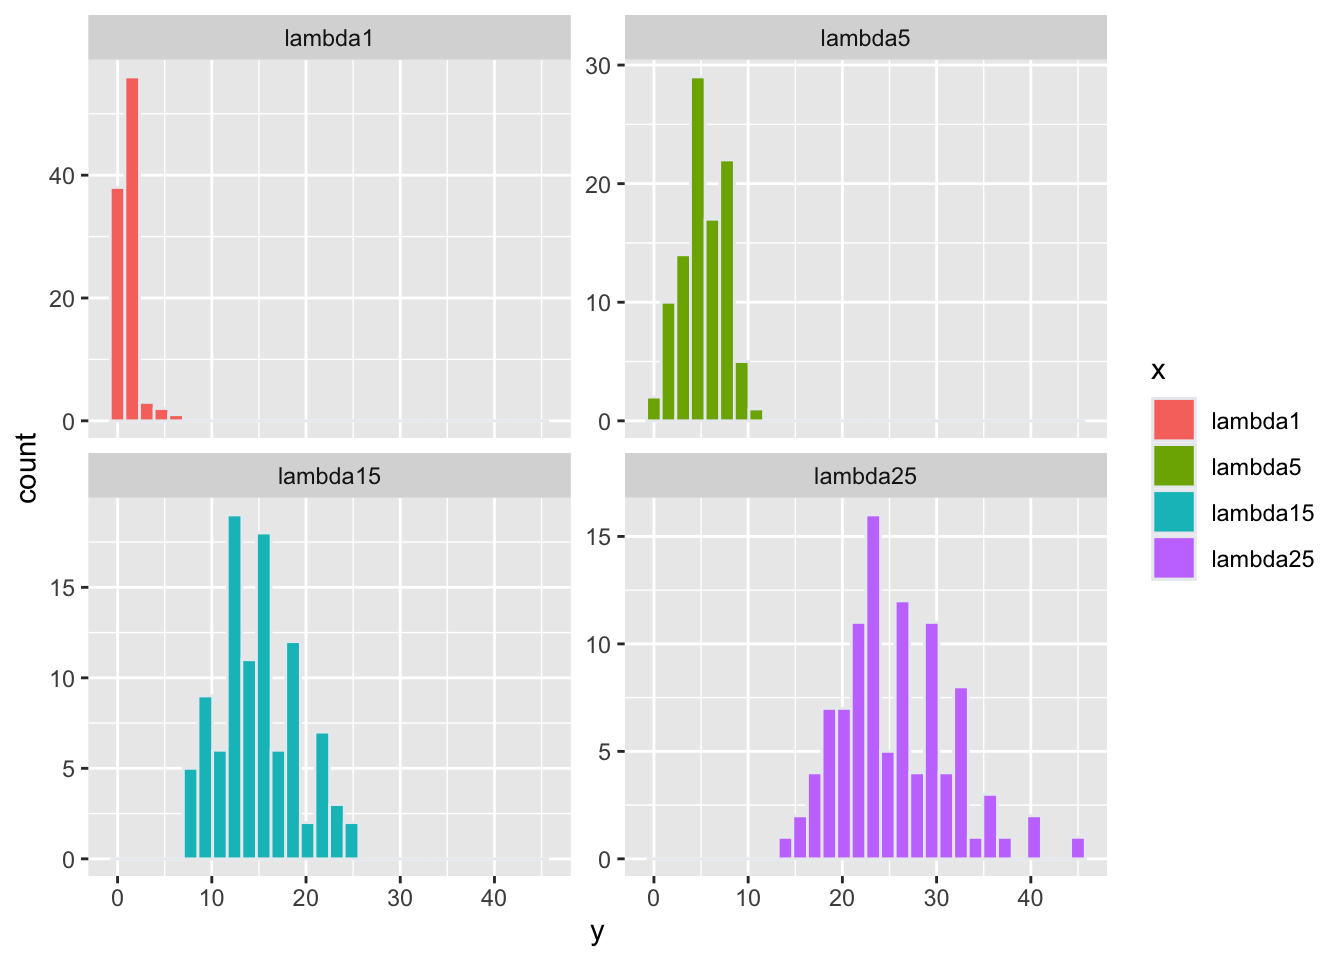
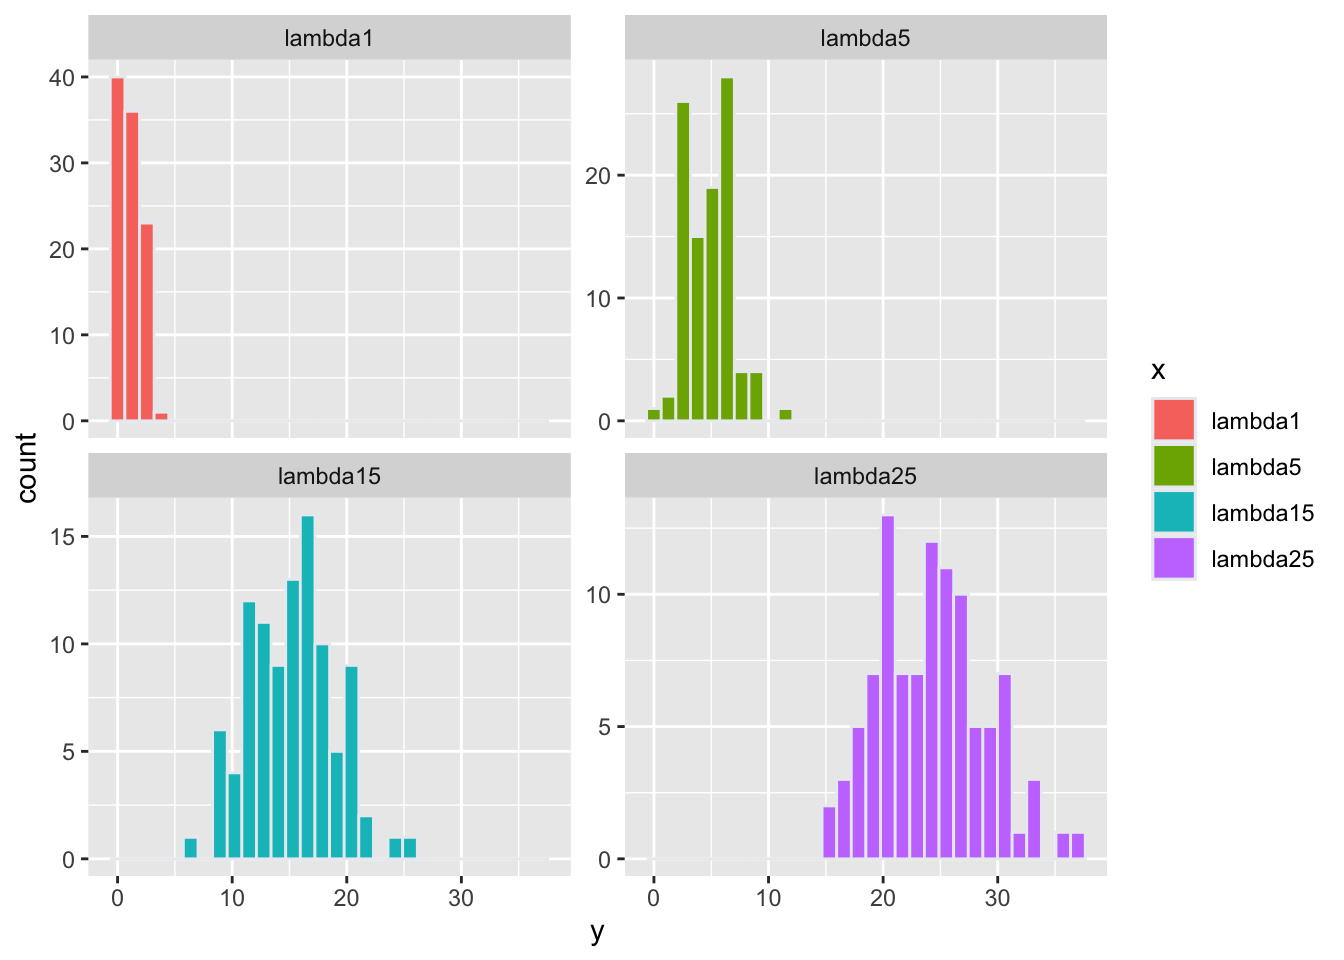
Poisson

diff --git a/TF6_Regresion_Poisson.html b/TF6_Regresion_Poisson.html
@@ -676,36 +676,35 @@ div.tocify {
 <li>k! es el factorial de k.</li>
 </ul>
 <p>Cuando se describe una distribución Poisson el promedio es <span class="math inline">\(\lambda\)</span> y la varianza es tambien <span class="math inline">\(\lambda\)</span>. Es el mismo valor. Para calcular los otros parámetros vea el website de Wikipedia (<a href="https://en.wikipedia.org/wiki/Poisson_distribution" class="uri">https://en.wikipedia.org/wiki/Poisson_distribution</a>) que tiene la descripción de los otras medidas de tendencia centrales y de dispersión.</p>
-<div class="sourceCode" id="cb4"><pre class="sourceCode r"><code class="sourceCode r"><span id="cb4-1"><a href="#cb4-1"></a><span class="co">#x1=rpois(100, 1)</span></span>
-<span id="cb4-2"><a href="#cb4-2"></a><span class="co">#x5=rpois(100, 5)</span></span>
-<span id="cb4-3"><a href="#cb4-3"></a><span class="co">#x15=rpois(100, 15)</span></span>
-<span id="cb4-4"><a href="#cb4-4"></a><span class="co">#x25=rpois(100, 25)</span></span>
-<span id="cb4-5"><a href="#cb4-5"></a></span>
-<span id="cb4-6"><a href="#cb4-6"></a></span>
-<span id="cb4-7"><a href="#cb4-7"></a>foo &lt;-<span class="st"> </span><span class="kw">list</span>(</span>
-<span id="cb4-8"><a href="#cb4-8"></a>        <span class="dt">df1 =</span> <span class="kw">data.frame</span>(<span class="dt">x=</span><span class="kw">rep</span>(<span class="st">&#39;lambda1&#39;</span>, <span class="dv">100</span>), <span class="dt">y =</span> <span class="kw">rpois</span>(<span class="dv">100</span>, <span class="dv">1</span>)), </span>
-<span id="cb4-9"><a href="#cb4-9"></a>        <span class="dt">df5 =</span> <span class="kw">data.frame</span>(<span class="dt">x=</span><span class="kw">rep</span>(<span class="st">&#39;lambda5&#39;</span>, <span class="dv">100</span>), <span class="dt">y =</span> <span class="kw">rpois</span>(<span class="dv">100</span>, <span class="dv">5</span>)),</span>
-<span id="cb4-10"><a href="#cb4-10"></a>        <span class="dt">df15 =</span> <span class="kw">data.frame</span>(<span class="dt">x=</span><span class="kw">rep</span>(<span class="st">&#39;lambda15&#39;</span>, <span class="dv">100</span>), <span class="dt">y =</span> <span class="kw">rpois</span>(<span class="dv">100</span>, <span class="dv">15</span>)),</span>
-<span id="cb4-11"><a href="#cb4-11"></a>        <span class="dt">df25 =</span> <span class="kw">data.frame</span>(<span class="dt">x=</span><span class="kw">rep</span>(<span class="st">&#39;lambda25&#39;</span>, <span class="dv">100</span>), <span class="dt">y =</span> <span class="kw">rpois</span>(<span class="dv">100</span>, <span class="dv">25</span>))</span>
-<span id="cb4-12"><a href="#cb4-12"></a>)</span>
-<span id="cb4-13"><a href="#cb4-13"></a><span class="co">#foo</span></span>
-<span id="cb4-14"><a href="#cb4-14"></a></span>
-<span id="cb4-15"><a href="#cb4-15"></a>lambda=<span class="kw">rbind</span>(foo<span class="op">$</span>df1, foo<span class="op">$</span>df5,foo<span class="op">$</span>df15,foo<span class="op">$</span>df25 )</span>
-<span id="cb4-16"><a href="#cb4-16"></a><span class="kw">head</span>(lambda)</span></code></pre></div>
+<div class="sourceCode" id="cb4"><pre class="sourceCode r"><code class="sourceCode r"><span id="cb4-1"><a href="#cb4-1"></a>foo &lt;-<span class="st"> </span><span class="kw">list</span>(</span>
+<span id="cb4-2"><a href="#cb4-2"></a>        <span class="dt">df1 =</span> <span class="kw">data.frame</span>(<span class="dt">x=</span><span class="kw">rep</span>(<span class="st">&#39;lambda1&#39;</span>, <span class="dv">100</span>), <span class="dt">y =</span> <span class="kw">rpois</span>(<span class="dv">100</span>, <span class="dv">1</span>)), </span>
+<span id="cb4-3"><a href="#cb4-3"></a>        <span class="dt">df5 =</span> <span class="kw">data.frame</span>(<span class="dt">x=</span><span class="kw">rep</span>(<span class="st">&#39;lambda5&#39;</span>, <span class="dv">100</span>), <span class="dt">y =</span> <span class="kw">rpois</span>(<span class="dv">100</span>, <span class="dv">5</span>)),</span>
+<span id="cb4-4"><a href="#cb4-4"></a>        <span class="dt">df15 =</span> <span class="kw">data.frame</span>(<span class="dt">x=</span><span class="kw">rep</span>(<span class="st">&#39;lambda15&#39;</span>, <span class="dv">100</span>), <span class="dt">y =</span> <span class="kw">rpois</span>(<span class="dv">100</span>, <span class="dv">15</span>)),</span>
+<span id="cb4-5"><a href="#cb4-5"></a>        <span class="dt">df25 =</span> <span class="kw">data.frame</span>(<span class="dt">x=</span><span class="kw">rep</span>(<span class="st">&#39;lambda25&#39;</span>, <span class="dv">100</span>), <span class="dt">y =</span> <span class="kw">rpois</span>(<span class="dv">100</span>, <span class="dv">25</span>))</span>
+<span id="cb4-6"><a href="#cb4-6"></a>)</span>
+<span id="cb4-7"><a href="#cb4-7"></a><span class="co">#foo</span></span>
+<span id="cb4-8"><a href="#cb4-8"></a></span>
+<span id="cb4-9"><a href="#cb4-9"></a>lambda=<span class="kw">rbind</span>(foo<span class="op">$</span>df1, foo<span class="op">$</span>df5,foo<span class="op">$</span>df15,foo<span class="op">$</span>df25 )</span>
+<span id="cb4-10"><a href="#cb4-10"></a><span class="kw">head</span>(lambda)</span></code></pre></div>
 <pre><code>##         x y
-## 1 lambda1 0
-## 2 lambda1 2
-## 3 lambda1 4
-## 4 lambda1 0
-## 5 lambda1 0
-## 6 lambda1 0</code></pre>
+## 1 lambda1 1
+## 2 lambda1 0
+## 3 lambda1 1
+## 4 lambda1 1
+## 5 lambda1 2
+## 6 lambda1 2</code></pre>
 <div class="sourceCode" id="cb6"><pre class="sourceCode r"><code class="sourceCode r"><span id="cb6-1"><a href="#cb6-1"></a>lambda<span class="op">$</span>x =<span class="st"> </span><span class="kw">factor</span>(lambda<span class="op">$</span>x, <span class="dt">levels=</span><span class="kw">c</span>(<span class="st">&#39;lambda1&#39;</span>,<span class="st">&#39;lambda5&#39;</span>,<span class="st">&#39;lambda15&#39;</span>,<span class="st">&#39;lambda25&#39;</span>))</span></code></pre></div>
 <p>Figura de la frecuencia de los valores, nota que se tiene 100 valores en cada simulación, donde el promedio, <span class="math inline">\(\lambda\)</span> varia, los <span class="math inline">\(\lambda\)</span> son 1, 5, 15 y 25. Nota</p>
+<div id="distribución-de-frecuencia" class="section level3">
+<h3>Distribución de frecuencia</h3>
 <div class="sourceCode" id="cb7"><pre class="sourceCode r"><code class="sourceCode r"><span id="cb7-1"><a href="#cb7-1"></a><span class="kw">ggplot</span>(lambda, <span class="kw">aes</span>(y, <span class="dt">fill=</span>x))<span class="op">+</span></span>
 <span id="cb7-2"><a href="#cb7-2"></a><span class="kw">geom_histogram</span>(<span class="dt">color=</span><span class="st">&quot;#e9ecef&quot;</span>)<span class="op">+</span></span>
 <span id="cb7-3"><a href="#cb7-3"></a><span class="st">  </span><span class="kw">facet_wrap</span>(<span class="op">~</span>x, <span class="dt">scales=</span><span class="st">&quot;free_y&quot;</span>)</span></code></pre></div>
 <pre><code>## `stat_bin()` using `bins = 30`. Pick better value with `binwidth`.</code></pre>
 <p><img src="TF6_Regresion_Poisson_files/figure-html/unnamed-chunk-5-1.png" width="672" /></p>
+</div>
+<div id="función-de-probabilidad" class="section level3">
+<h3>Función de Probabilidad</h3>
 <p>Se puede convertir estos gráfico en “probability mass distribution”. En esta ocasión la distribución sigue la siguiente ecuación,</p>
 <p><span class="math display">\[Pr\left(x=k\right)=\frac{\lambda^k\cdot e^{-\lambda}}{k!}\]</span></p>
 <div class="sourceCode" id="cb9"><pre class="sourceCode r"><code class="sourceCode r"><span id="cb9-1"><a href="#cb9-1"></a><span class="kw">ggplot</span>(lambda, <span class="kw">aes</span>(y, <span class="dt">fill=</span>x))<span class="op">+</span></span>
@@ -713,15 +712,19 @@ div.tocify {
 <span id="cb9-3"><a href="#cb9-3"></a><span class="st">  </span><span class="kw">facet_wrap</span>(<span class="op">~</span>x)</span></code></pre></div>
 <pre><code>## `stat_bin()` using `bins = 30`. Pick better value with `binwidth`.</code></pre>
 <p><img src="TF6_Regresion_Poisson_files/figure-html/unnamed-chunk-6-1.png" width="672" /></p>
-<p>Muchas veces los datos pueden ser sesgado a la derecha o izquierda, y no demuestra una distribución normal (aunque pudiese).</p>
-<div class="sourceCode" id="cb11"><pre class="sourceCode r"><code class="sourceCode r"><span id="cb11-1"><a href="#cb11-1"></a><span class="kw">ggplot</span>(acs, <span class="kw">aes</span>(<span class="dt">x=</span>NumChildren))<span class="op">+</span><span class="st"> </span><span class="kw">geom_histogram</span>(<span class="dt">bindwidth=</span><span class="dv">1</span>)</span></code></pre></div>
+<p>Aqui se aplica la función para visualizar la probabilidades cumulativas, vea <strong>stat_ecdf {ggplot2}</strong> para más detalles. Lo que se observa es la probabilidad de incluir los valores cumulativamente. Los más importante es reconocer que la adición de las probabilidades no es continua, pero “salta” de un valor a otra a medida que se añade la frecuencia de los valores en el eje de x. Si fuese una distribución normal, la linea seria suavizada.</p>
+<div class="sourceCode" id="cb11"><pre class="sourceCode r"><code class="sourceCode r"><span id="cb11-1"><a href="#cb11-1"></a><span class="kw">ggplot</span>(lambda, <span class="kw">aes</span>(y, <span class="dt">colour=</span>x))<span class="op">+</span></span>
+<span id="cb11-2"><a href="#cb11-2"></a><span class="kw">stat_ecdf</span>(<span class="dt">geom =</span> <span class="st">&quot;step&quot;</span>)</span></code></pre></div>
+<p><img src="TF6_Regresion_Poisson_files/figure-html/unnamed-chunk-7-1.png" width="672" /></p>
+<p>Muchas veces los datos que uno recolecta tienen esta características de ser discreto y positivos. En este ejemplo es el número de hijos que tiene familias. Los datos son discretos y positivos. No hay familia que tiene 1.4 hijos.</p>
+<div class="sourceCode" id="cb12"><pre class="sourceCode r"><code class="sourceCode r"><span id="cb12-1"><a href="#cb12-1"></a><span class="kw">ggplot</span>(acs, <span class="kw">aes</span>(<span class="dt">x=</span>NumChildren))<span class="op">+</span><span class="st"> </span><span class="kw">geom_histogram</span>(<span class="dt">bindwidth=</span><span class="dv">1</span>)</span></code></pre></div>
 <pre><code>## Warning: Ignoring unknown parameters: bindwidth</code></pre>
 <pre><code>## `stat_bin()` using `bins = 30`. Pick better value with `binwidth`.</code></pre>
 <p><img src="TF6_Regresion_Poisson_files/figure-html/PR-1.png" width="672" /></p>
-<div class="sourceCode" id="cb14"><pre class="sourceCode r"><code class="sourceCode r"><span id="cb14-1"><a href="#cb14-1"></a>children1&lt;-<span class="kw">glm</span>(NumChildren<span class="op">~</span>FamilyIncome<span class="op">+</span>FamilyType<span class="op">+</span>OwnRent,</span>
-<span id="cb14-2"><a href="#cb14-2"></a>               <span class="dt">data=</span>acs, <span class="dt">family=</span><span class="kw">poisson</span>(<span class="dt">link=</span><span class="st">&quot;log&quot;</span>))</span>
-<span id="cb14-3"><a href="#cb14-3"></a></span>
-<span id="cb14-4"><a href="#cb14-4"></a><span class="kw">summary</span>(children1)</span></code></pre></div>
+<div class="sourceCode" id="cb15"><pre class="sourceCode r"><code class="sourceCode r"><span id="cb15-1"><a href="#cb15-1"></a>children1&lt;-<span class="kw">glm</span>(NumChildren<span class="op">~</span>FamilyIncome<span class="op">+</span>FamilyType<span class="op">+</span>OwnRent,</span>
+<span id="cb15-2"><a href="#cb15-2"></a>               <span class="dt">data=</span>acs, <span class="dt">family=</span><span class="kw">poisson</span>(<span class="dt">link=</span><span class="st">&quot;log&quot;</span>))</span>
+<span id="cb15-3"><a href="#cb15-3"></a></span>
+<span id="cb15-4"><a href="#cb15-4"></a><span class="kw">summary</span>(children1)</span></code></pre></div>
 <pre><code>## 
 ## Call:
 ## glm(formula = NumChildren ~ FamilyIncome + FamilyType + OwnRent, 
@@ -749,35 +752,36 @@ div.tocify {
 ## AIC: 61370
 ## 
 ## Number of Fisher Scoring iterations: 5</code></pre>
-<div class="sourceCode" id="cb16"><pre class="sourceCode r"><code class="sourceCode r"><span id="cb16-1"><a href="#cb16-1"></a><span class="kw">coefplot</span>(children1)</span></code></pre></div>
+<div class="sourceCode" id="cb17"><pre class="sourceCode r"><code class="sourceCode r"><span id="cb17-1"><a href="#cb17-1"></a><span class="kw">coefplot</span>(children1)</span></code></pre></div>
 <p><img src="TF6_Regresion_Poisson_files/figure-html/PR2-1.png" width="672" /></p>
 <p>Overdispersion is defined as</p>
 <p><span class="math inline">\(OD=\frac { 1 }{ n-p } \sum _{ i=1 }^{ n }{ { z }_{ i }^{ 2 } }\)</span></p>
 <p>where</p>
 <p><span class="math inline">\({ z }_{ i }=\frac { \gamma _{ i }-{ \hat { \gamma } }_{ i } }{ sd({ \hat { \gamma } }_{ i }) } =\frac { \gamma _{ i }-{ \mu }_{ i }{ \hat { \theta } }_{ i } }{ \sqrt { { \mu }_{ i }{ \hat { \theta } }_{ i } } }\)</span></p>
 <p>standardized residuals</p>
-<div class="sourceCode" id="cb17"><pre class="sourceCode r"><code class="sourceCode r"><span id="cb17-1"><a href="#cb17-1"></a>z&lt;-(acs<span class="op">$</span>NumChildren<span class="op">-</span>children1<span class="op">$</span>fitted.values)<span class="op">/</span><span class="kw">sqrt</span>(children1<span class="op">$</span>fitted.values)</span>
-<span id="cb17-2"><a href="#cb17-2"></a><span class="kw">head</span>(z)</span></code></pre></div>
+<div class="sourceCode" id="cb18"><pre class="sourceCode r"><code class="sourceCode r"><span id="cb18-1"><a href="#cb18-1"></a>z&lt;-(acs<span class="op">$</span>NumChildren<span class="op">-</span>children1<span class="op">$</span>fitted.values)<span class="op">/</span><span class="kw">sqrt</span>(children1<span class="op">$</span>fitted.values)</span>
+<span id="cb18-2"><a href="#cb18-2"></a><span class="kw">head</span>(z)</span></code></pre></div>
 <pre><code>##           1           2           3           4           5           6 
 ##  0.18186518  0.87627176 -0.84977889 -0.08314153  0.39096022  1.95966583</code></pre>
 <p>Overdispersion Factor</p>
-<div class="sourceCode" id="cb19"><pre class="sourceCode r"><code class="sourceCode r"><span id="cb19-1"><a href="#cb19-1"></a><span class="kw">sum</span>(z<span class="op">^</span><span class="dv">2</span>)<span class="op">/</span>children1<span class="op">$</span>df.residual</span></code></pre></div>
+<div class="sourceCode" id="cb20"><pre class="sourceCode r"><code class="sourceCode r"><span id="cb20-1"><a href="#cb20-1"></a><span class="kw">sum</span>(z<span class="op">^</span><span class="dv">2</span>)<span class="op">/</span>children1<span class="op">$</span>df.residual</span></code></pre></div>
 <pre><code>## [1] 1.469747</code></pre>
 <p>Overdisperion p-value</p>
 <p>Gnerally an overdispersion ratio of 2 or greater indicates overdispersion. While this overdispersion ratio is less than 2, the p value is 1, meaning that there is statistically significant overdispersion. So we refit the model to account for the overdispersion using quasipoisson family, which actually uses the negative binomial distribution.</p>
-<div class="sourceCode" id="cb21"><pre class="sourceCode r"><code class="sourceCode r"><span id="cb21-1"><a href="#cb21-1"></a><span class="kw">pchisq</span>(<span class="kw">sum</span>(z<span class="op">^</span><span class="dv">2</span>), children1<span class="op">$</span>df.residual)</span></code></pre></div>
+<div class="sourceCode" id="cb22"><pre class="sourceCode r"><code class="sourceCode r"><span id="cb22-1"><a href="#cb22-1"></a><span class="kw">pchisq</span>(<span class="kw">sum</span>(z<span class="op">^</span><span class="dv">2</span>), children1<span class="op">$</span>df.residual)</span></code></pre></div>
 <pre><code>## [1] 1</code></pre>
-<div class="sourceCode" id="cb23"><pre class="sourceCode r"><code class="sourceCode r"><span id="cb23-1"><a href="#cb23-1"></a>children2&lt;-<span class="kw">glm</span>(NumChildren<span class="op">~</span>FamilyIncome<span class="op">+</span>FamilyType<span class="op">+</span>OwnRent,</span>
-<span id="cb23-2"><a href="#cb23-2"></a>               <span class="dt">data=</span>acs, <span class="dt">family=</span><span class="kw">quasipoisson</span>(<span class="dt">link=</span><span class="st">&quot;log&quot;</span>))</span>
-<span id="cb23-3"><a href="#cb23-3"></a></span>
-<span id="cb23-4"><a href="#cb23-4"></a></span>
-<span id="cb23-5"><a href="#cb23-5"></a><span class="co"># Me will now compare the dispersion pattern visually for both models.  </span></span>
-<span id="cb23-6"><a href="#cb23-6"></a><span class="kw">multiplot</span>(children1, children2)</span></code></pre></div>
+<div class="sourceCode" id="cb24"><pre class="sourceCode r"><code class="sourceCode r"><span id="cb24-1"><a href="#cb24-1"></a>children2&lt;-<span class="kw">glm</span>(NumChildren<span class="op">~</span>FamilyIncome<span class="op">+</span>FamilyType<span class="op">+</span>OwnRent,</span>
+<span id="cb24-2"><a href="#cb24-2"></a>               <span class="dt">data=</span>acs, <span class="dt">family=</span><span class="kw">quasipoisson</span>(<span class="dt">link=</span><span class="st">&quot;log&quot;</span>))</span>
+<span id="cb24-3"><a href="#cb24-3"></a></span>
+<span id="cb24-4"><a href="#cb24-4"></a></span>
+<span id="cb24-5"><a href="#cb24-5"></a><span class="co"># Me will now compare the dispersion pattern visually for both models.  </span></span>
+<span id="cb24-6"><a href="#cb24-6"></a><span class="kw">multiplot</span>(children1, children2)</span></code></pre></div>
 <p><img src="TF6_Regresion_Poisson_files/figure-html/PR6-1.png" width="672" /></p>
 <blockquote>
 <p>“Activities reported in this website was supported by the National Institute of General Medical Sciences of the National Institutes of Health under Award Number R25GM121270. The content is solely the responsibility of the authors and does not necessarily represent the official views of the National Institutes of Health.”</p>
 </blockquote>
 <p><img src="Graficos/UPR_Logos.png" width="100%" /></p>
+</div>
 </div>
 
 
